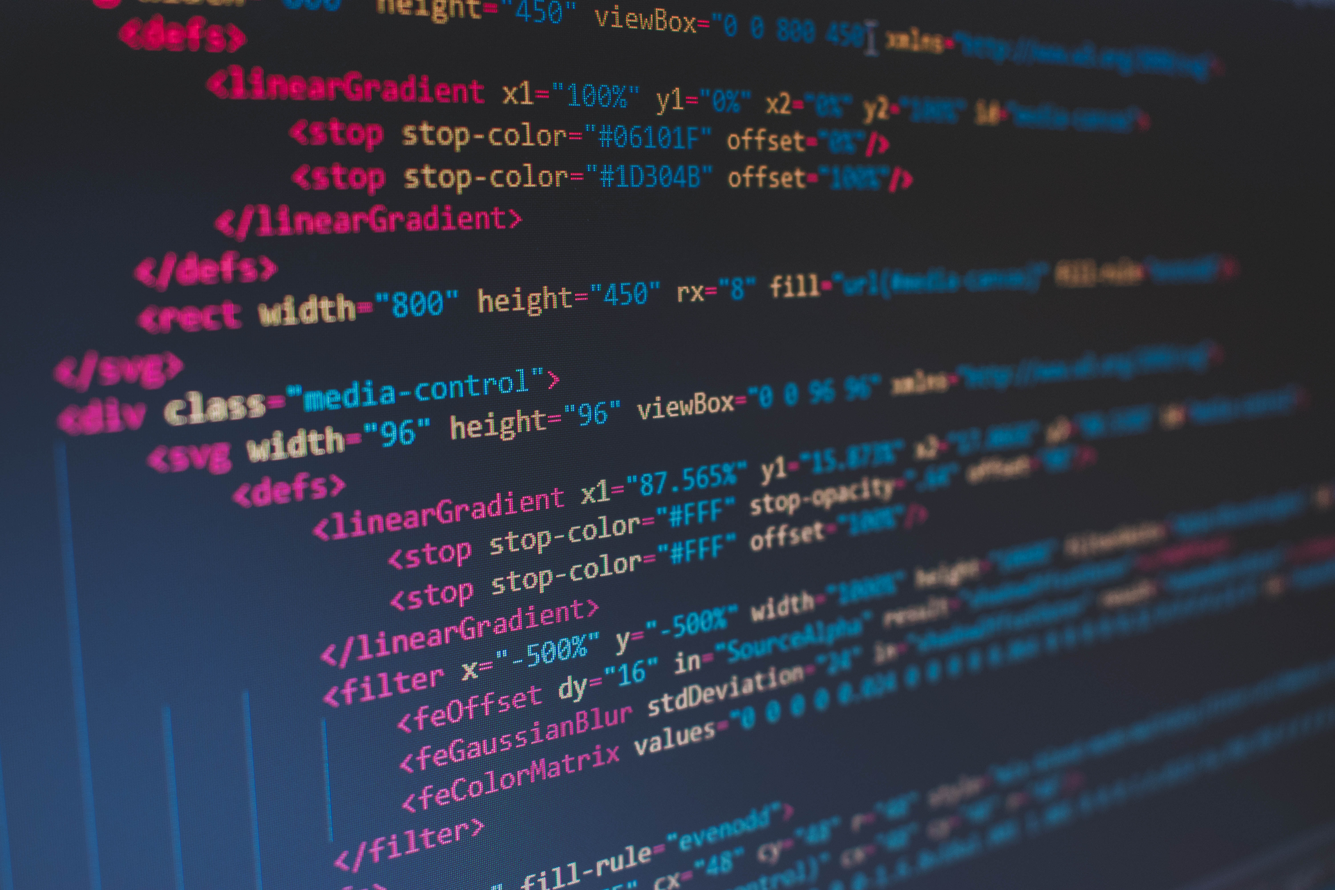
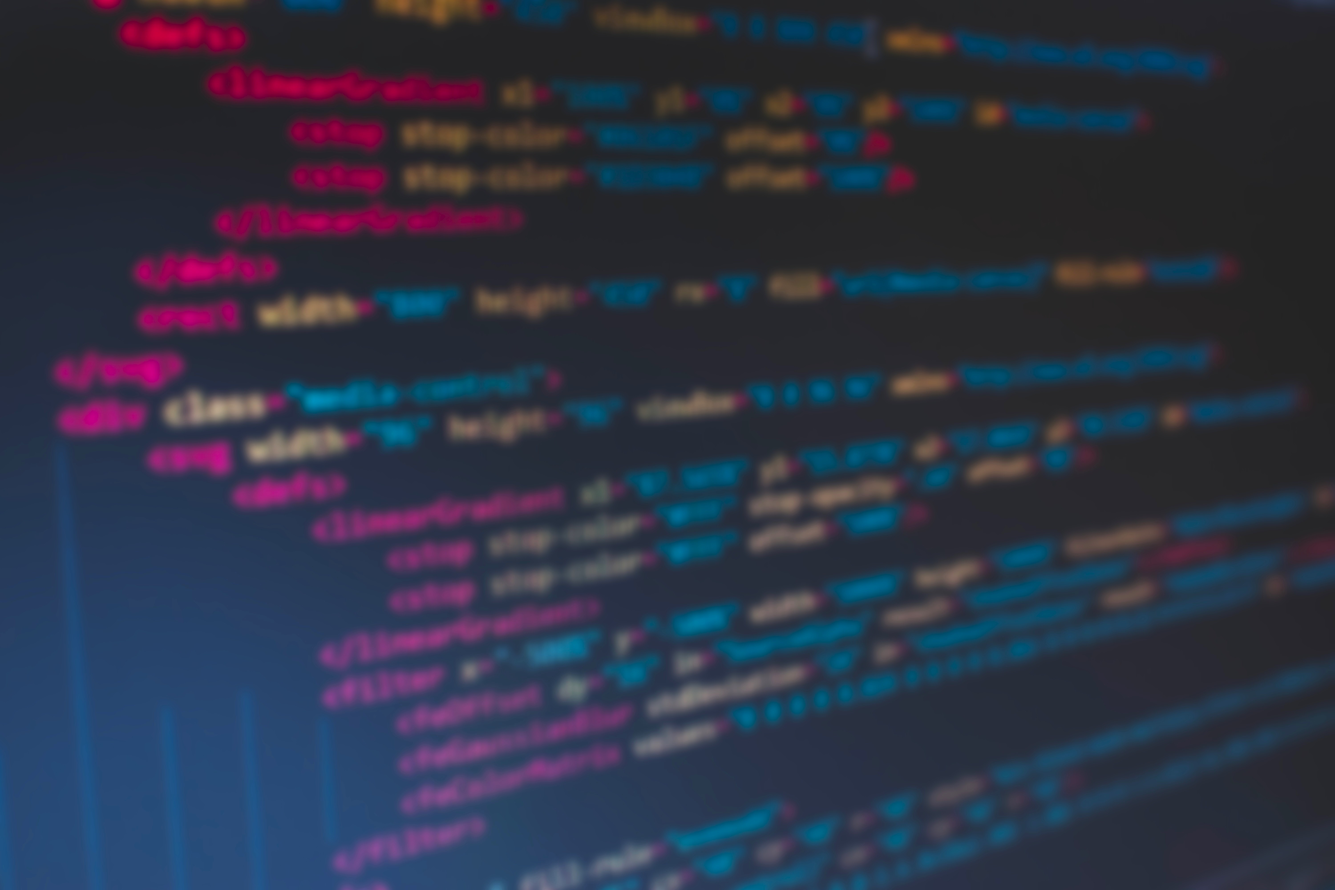
first commit

diff --git a/static/css/styles.css b/static/css/styles.css
@@ -11200,6 +11200,8 @@ body {
   background-repeat: no-repeat;
   background-attachment: scroll;
   background-size: cover;
+  filter: blur(3px);
+  -webkit-filter: blur(10px);
 }
 
 .masthead h1 {
